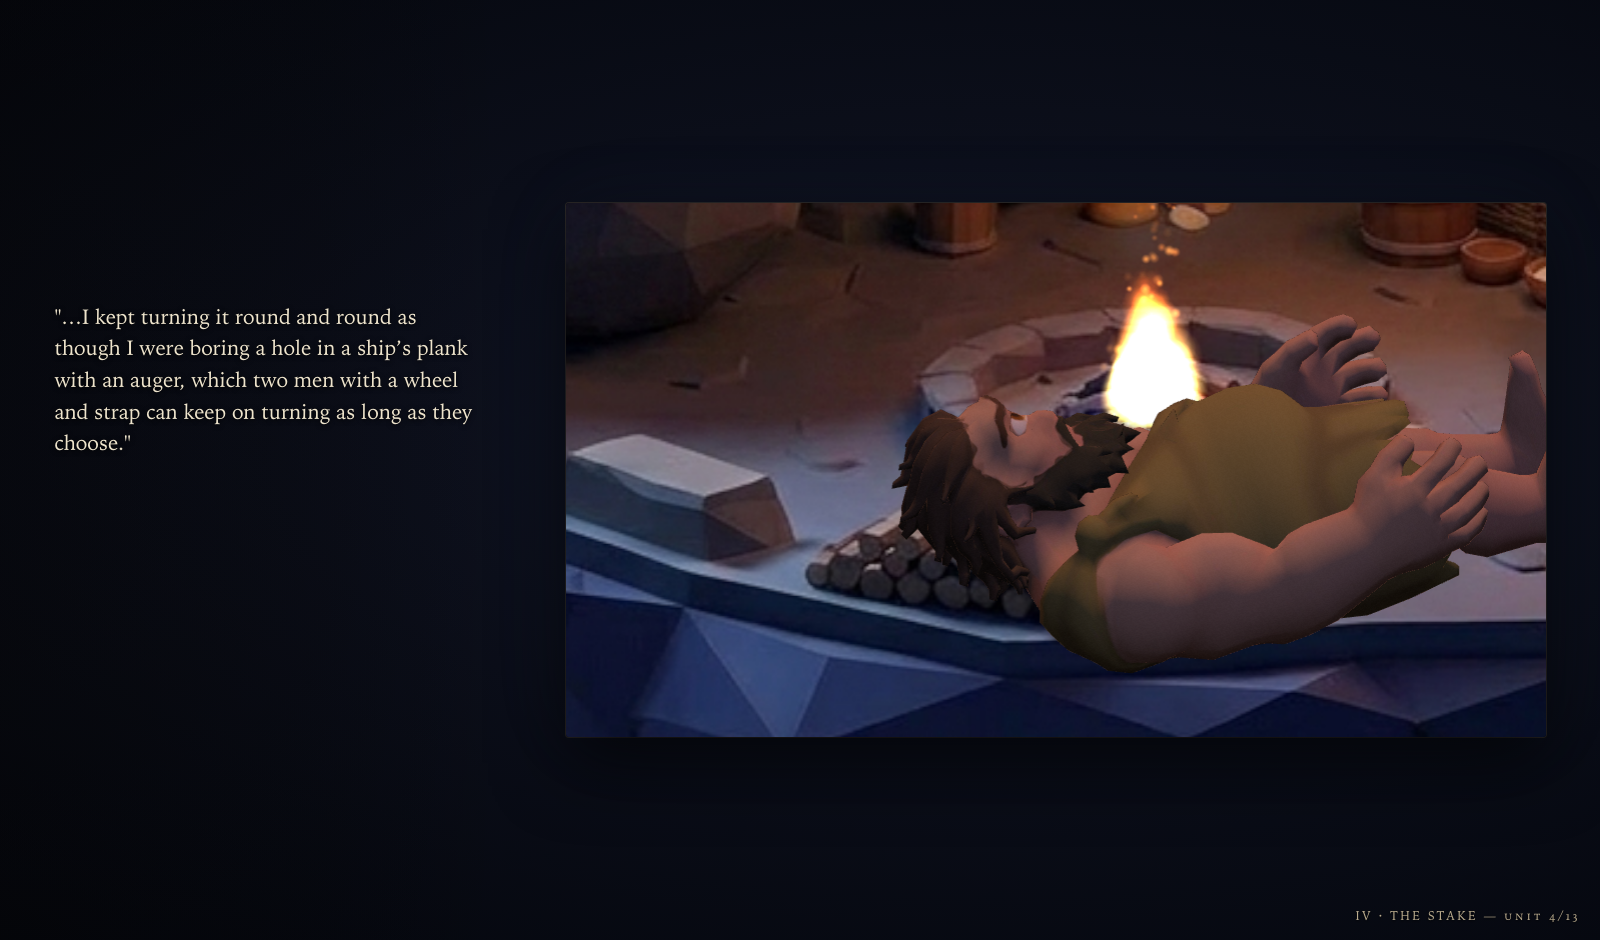
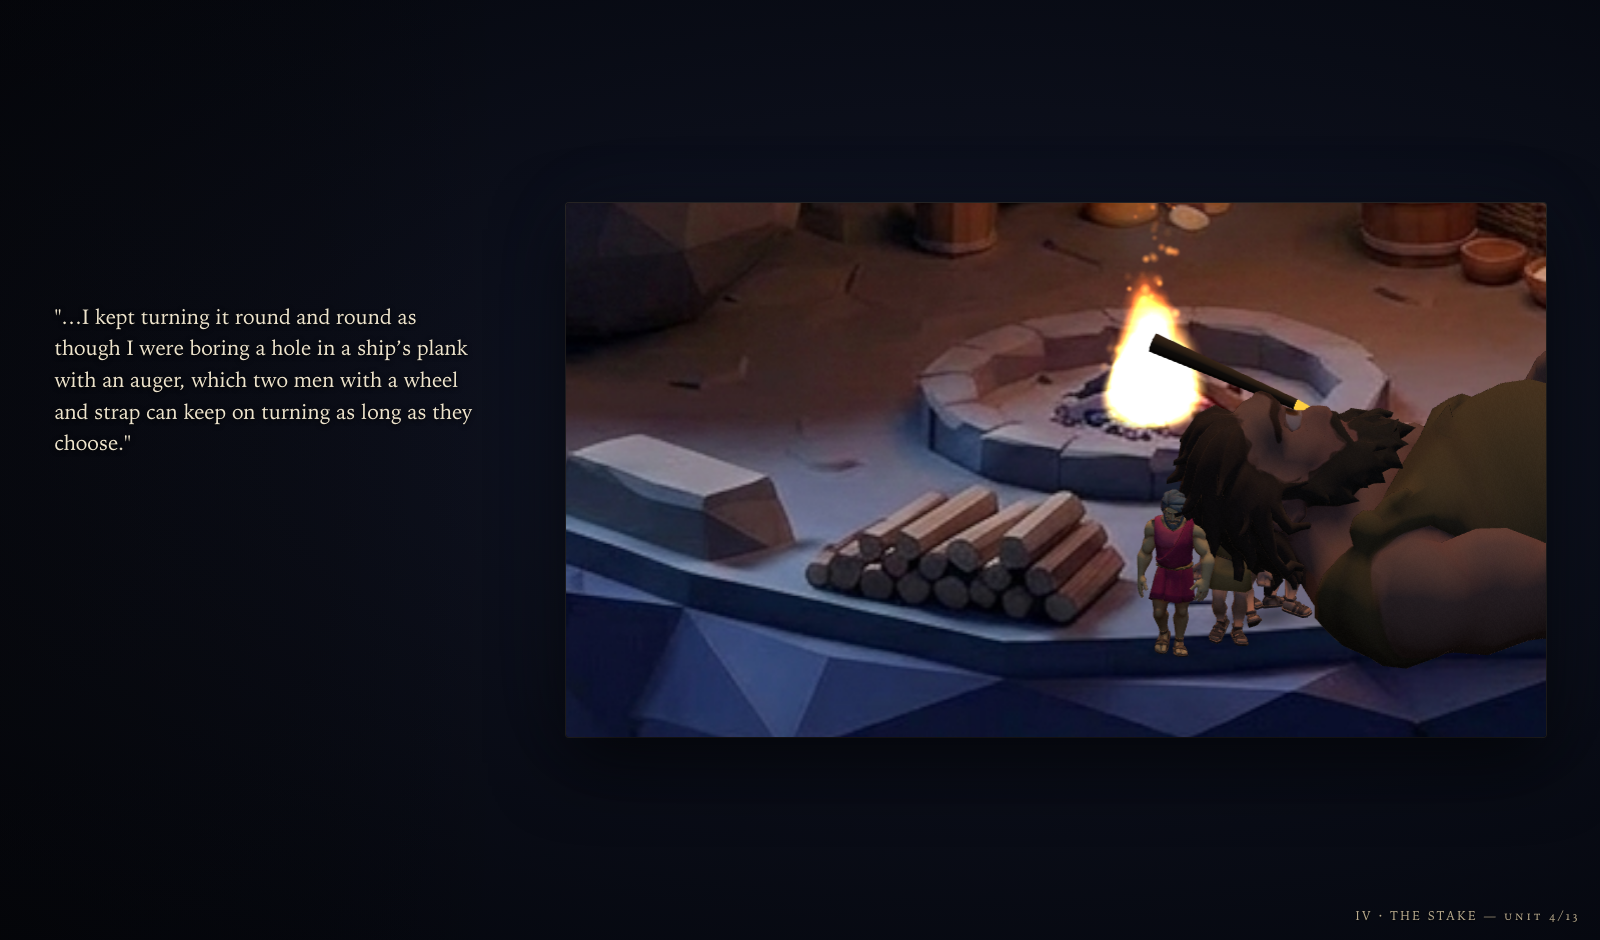
Living Odyssey 3d: C2 + SOL#1/#6 — the giant on his own ledger marks
C2 THE GIANT, staged against the ledger and the lens tables (audited unit by
unit with tools/ody/_stageprobe.mjs, which measures every visible actor's
skinned silhouette in PLATE px inside the live lens box):

- THE SPRAWL SAT 116 px OFF ITS LEDGER BOX. The lying rig's anchor is his
  soles, and the rendered box starts 293.4 px west of it: anchored at 814 he
  drew [520.6..820.8] against the ledger's audited [636.6..937.8] (round-7
  placement audit #5), which laid his torso straight across the fire ring
  [531..735] — Sol's "the fire grows out of his torso" — and stranded
  everything already staged AT the ledger (the auger drives to (668,528) ->
  (702,533), the bearers walk to 700..735). Anchored at 930/531 the head lands
  on the ledger's head pin, the eye returns to drive-tight's own aim point
  (676,495), and ii-10's leaf stops cropping his feet at the meal-close bottom
  edge (571.6 vs 572.5).
- THE BEARERS STAND IN FRONT OF THE HEAD THEY LEAN ON. With the body back on
  its box, the old drive row (700..735, feet 539) sat INSIDE his head — the
  drive-tight frame lost all five men behind his hair. The row moves downstage
  of the sprawl baseline and of the woodpile card (ground 555): men at
  624..720, feet 565..571, whole in the lens, overlapping the head in front.
- THE COUNCIL WAS NOT A TWO-SHOT. A 2.6 m dice-roll cluster on an 11.3 px/m
  set scattered the three crew to plate x 452..462 — ALL THREE outside
[…]

Changed region(s): [[0.5625, 0.3394, 0.9688, 0.7096]]

diff --git a/living-odyssey/3d/app3d/stage3d.js b/living-odyssey/3d/app3d/stage3d.js
@@ -404,7 +404,13 @@ export class Stage3D {
            A blob scaled off stature alone gives a 2.1 m disc to a 7 m giant
            who is LYING DOWN across the hearth; the posed bounding box is the
            honest footprint, and the stage tints and fades it per frame. */
-        const bb = new THREE.Box3().setFromObject(a.model);
+        /* off the POSED skinned sweep (cast3d's skinSize) — Box3.setFromObject
+           reads a SkinnedMesh's BIND box, which gave the seated giant a
+           standing A-pose footprint 1.5 m deep instead of his real 3.4 m. */
+        const bb = a.skinSize
+          ? { max: { x: a.skinSize[0] / 2, z: a.skinSize[2] / 2 },
+              min: { x: -a.skinSize[0] / 2, z: -a.skinSize[2] / 2 } }
+          : new THREE.Box3().setFromObject(a.model);
         const fx = Math.max(0.16, (bb.max.x - bb.min.x) * 0.56);
         const fz = Math.max(0.12, (bb.max.z - bb.min.z) * 0.62);
         a.footprint = [+fx.toFixed(3), +fz.toFixed(3)];
@@ -486,6 +492,13 @@ export class Stage3D {
       tree(keepAll, rec.api.parts['thrown-rocks']);
       tree(keepPts, rec.api.parts['splash-pool']);
     }
+    /* THE HAND PROPS ARE THE STORY, NOT SCENERY. The sword, the bowl and the
+       stake are built into rec.api.root by _buildProps, so this sweep retired
+       them with the painted dressing: iii-08's whole readable action is "take
+       this and drink some wine" and there was NO BOWL in the frame (SOL#1),
+       G2's glint had no sword and Beat IV's stake was an invisible drive.
+       Keep every prop the reader is asked to look at. */
+    if (rec.propsGroup) tree(keepAll, rec.propsGroup);
     let hidden = 0, kept = 0, points = 0;
     rec.api.root.traverse((o) => {
       const drawable = o.isMesh || o.isSprite || o.isLine || o.isInstancedMesh || o.isPoints;
@@ -693,6 +706,12 @@ export class Stage3D {
     const k = Math.min(1, Math.max(0, s.lum / 150));
     m.color.setRGB(s.rgb[0] / 255 * 0.26, s.rgb[1] / 255 * 0.24, s.rgb[2] / 255 * 0.24);
     m.opacity = (0.17 + 0.40 * k) * (a.opacity === undefined ? 1 : a.opacity);
+    /* SOL#6's cast smear is the SAME light as the contact blob — one reading
+       of the plate drives both, or the two shadows disagree about the fire */
+    if (a.scaleShadow && a.scaleShadow.visible) {
+      a.scaleShadow.material.color.copy(m.color);
+      a.scaleShadow.material.opacity = m.opacity * 0.72;
+    }
     const rec = this.sets[this.activeName];
     if (!rec || !rec.fireAnchor) return;
     const p = a.group.position, fa = rec.fireAnchor;
@@ -1117,6 +1136,10 @@ export class Stage3D {
     stake.visible = false;
     grp.add(stake);
     rec.api.root.add(grp);
+    /* named so _retireScenery can spare it: these are the story's hand props,
+       built into the set's root and therefore in the sweep's path */
+    grp.name = 'story-props';
+    rec.propsGroup = grp;
     this.props.sword = sword;
     this.props.bowl = bowl;
     this.props.wine = wine;
@@ -1127,7 +1150,37 @@ export class Stage3D {
     this.props.stakeTipLight = tipLight;
     /* prop marks (ledger px -> world) */
     this.props.swordAt = toWorld(680, 554); this.props.swordAt.y = 0.85;
-    this.props.bowlAt = toWorld(700, 514); this.props.bowlAt.y = 1.05;
+    /* SOL#1 — THE BOWL IS OFFERED, not carried. Round 3 put it on the hero's
+       own mark at chest height, which is INSIDE his torso from this camera:
+       the one readable action of iii-08 ("take this and drink some wine") had
+       no visible object in it. Step it off the mark along the bowl-offer ->
+       giant-seat axis, at the height of a lifted arm, so the hero's silhouette
+       carries a held bowl pointed at the giant. */
+    this.props.bowlAt = toWorld(700, 514);
+    {
+      const seat = toWorld(...GIANT_SEAT_PX);
+      const dx = seat.x - this.props.bowlAt.x, dz = seat.z - this.props.bowlAt.z;
+      const L = Math.max(1e-3, Math.hypot(dx, dz));
+      /* ACROSS, barely UPSTAGE, and the step is measured in PLAN. The giant
+         sits up-and-back, so a straight 0.6 m down that axis is only 0.23 m
+         across (it reads as still inside the hero's torso) and 0.55 m upstage
+         — past the firering-front cut at z 2.45, which swallowed it whole.
+         Fix the lateral step in PLAN and take a fifth of the depth.
+         ROUND 4 — A BOWL THAT DOES NOT TOUCH HIM IS NOT OFFERED. 0.55 m is
+         23.6 plate px on a hero whose drawn half-width is ~16 px, so the cup
+         cleared his silhouette entirely and read as a dark disc floating at
+         his shoulder — the one readable action of iii-08 with no hand in it.
+         0.34 m puts the cup's near half OVER his body edge and its far half
+         out on the lit ground toward the giant: held, and still legible. */
+      const step = 0.34 / Math.max(0.2, Math.abs(dx / L));
+      this.props.bowlAt.x += (dx / L) * step;
+      this.props.bowlAt.z += (dz / L) * step * 0.22;
+    }
+    /* AT HIS HANDS, and clear of the logbundle cut. 1.15 m floated the cup at
+       his chin; 1.02 m is where a man carries a bowl he means to hand over,
+       and it still draws at plate row ~473 — below the logbundle card's own
+       ground (497), so the card cannot take it back. */
+    this.props.bowlAt.y = 1.02;
     this.props.stakeAt = toWorld(782, 496); this.props.stakeAt.y = 0.35;
     sword.position.copy(this.props.swordAt);
     bowl.position.copy(this.props.bowlAt);
@@ -1154,11 +1207,20 @@ export class Stage3D {
 
   /**
    * SOL #6 — SCALE EVIDENCE. A blob under the feet seats a man; it does not
-   * say how big he is. The seated giant gets a SECOND, long soft shadow that
-   * leaves his own footprint and falls DOWNSTAGE-WEST across the floor the
-   * small hero stands on, so the two bodies share one lit ground plane and the
-   * size reads spatially. It is the same painted-blob decal, stretched along
-   * the giant-seat -> bowl-offer axis and laid flat on the plate's floor.
+   * say how big he is. The seated giant gets a SECOND, soft shadow that leaves
+   * his own footprint and falls DOWNSTAGE-WEST across the floor the small hero
+   * stands on, so the two bodies share one lit ground plane and the size reads
+   * spatially. It is the same painted-blob decal, laid flat on the plate's
+   * floor and aimed down the giant-seat -> bowl-offer axis.
+   *
+   * IT IS THE GIANT'S SHADOW, NOT A FLOOR WASH. Round 3 scaled the decal off
+   * the DISTANCE to the hero (2.15 x 1.35 of a 3.5 m span) and centred it at
+   * 46% of the way there: a 15 x 6 m smear at opacity 0.26, which covers the
+   * whole hearth, reads as haze and proves nothing. A cast shadow is the size
+   * of the BODY that casts it — so the width is his own posed width, the
+   * length is his depth plus the reach to the hero's mark, the NEAR END sits
+   * under him (a shadow is attached to its body or it is a stain), and the
+   * opacity is the contact shadow's, because it is the same light.
    */
   _scaleShadow(a, on) {
     const rec = this.sets[this.activeName];
@@ -1169,21 +1231,34 @@ export class Stage3D {
          yaw, and a cast shadow does not turn when the body turns */
       a.scaleShadow = makeContactShadow(1, 0.62);
       a.scaleShadow.name = 'scale-shadow';
-      a.scaleShadow.material.opacity = 0.26;
       a.scaleShadow.rotation.order = 'YXZ';
       this.actorLayer.add(a.scaleShadow);
     }
     const from = rec.toWorld(...GIANT_SEAT_PX);
     const to = rec.toWorld(...GIANT_SEAT_SHADOW_TO);
     const dx = to.x - from.x, dz = to.z - from.z;
-    const len = Math.max(1e-3, Math.hypot(dx, dz));
+    const reach = Math.max(1e-3, Math.hypot(dx, dz));
+    /* his own bulk (posed skinned sweep), never the distance to someone else */
+    const bodyW = a.skinSize ? a.skinSize[0] : 4.2;
+    const bodyD = a.skinSize ? a.skinSize[2] : 3.4;
+    const len = bodyD * 0.5 + reach + 0.9;   /* under him, out past the hero */
     const sh = a.scaleShadow;
     sh.visible = true;
-    sh.position.set(from.x + dx * 0.46, 0.015, from.z + dz * 0.46);
+    /* the near end under the body: centre it half a length down the axis */
+    const ux = dx / reach, uz = dz / reach;
+    const mid = len * 0.5 - bodyD * 0.35;
+    sh.position.set(from.x + ux * mid, 0.015, from.z + uz * mid);
     /* the blob is a plane in XZ, its long axis local +X: aim it down the axis
        (YXZ order, so the yaw applies after the lay-flat tilt) */
     sh.rotation.set(-Math.PI / 2, Math.atan2(-dz, dx), 0);
-    sh.scale.set(2.15 * len, 1.35 * len, 1);
+    /* the decal is 2 m x 1.24 m at scale 1 (makeContactShadow(1, 0.62)) */
+    sh.scale.set(len / 2, (bodyW * 0.86) / 1.24, 1);
+    /* the same light as the contact shadow — tinted and dimmed per frame by
+       _seatShadow's own reading of the plate, so keep them in step here */
+    if (a.shadow && a.shadow.material) {
+      sh.material.color.copy(a.shadow.material.color);
+      sh.material.opacity = a.shadow.material.opacity * 0.72;
+    }
     return sh;
   }
 
@@ -1336,7 +1411,11 @@ export class Stage3D {
     if (this.__acts) return this.__acts;
     const S = this;
     const shoreMarks = {
-      fire: [390, 480], council: [563, 499], councilCrew: [472, 507],
+      /* councilCrew: the ledger's arc centroid, moved 472 -> 479 by the C2 lens
+         audit — 472 put the arc's west man outside council-close's own window
+         (west edge 463.2); 479 keeps all three in the audited sand pocket
+         (450..495) AND inside the lens. */
+      fire: [390, 480], council: [563, 499], councilCrew: [479, 507],
       twelveAtShip: [560, 503],
     };
     const caveMarks = {
@@ -1391,7 +1470,22 @@ export class Stage3D {
       const g = giant('idle');
       if (!g) return;
       if (g.mode === 'pose') return;             /* already down — idempotent */
-      const mid = rec.toWorld(814, 533, 1.05);
+      /* C2 — THE SPRAWL SITS ON ITS OWN LEDGER BOX. The anchor is the rig's
+         ORIGIN (his soles), and laying a 7 m body down puts that origin at the
+         FOOT end: measured through the stage (tools/ody/_stageprobe.mjs), the
+         rendered plate box starts 293.4 px WEST of the anchor px. Anchored at
+         814 the body drew [520.6..820.8] — 116 px west of the ledger's audited
+         sprawl box [636.6..937.8] (round-7 placement audit #5), which laid his
+         torso straight across the fire ring [531..735]. That is the frame Sol
+         read as "the fire grows out of his torso", and it also stranded every
+         thing staged AT the ledger: the auger drives to (668,528)->(702,533)
+         and the bearers walk to 700..735, all of which were landing 100+ px
+         off the body they act on. 930 - 293.4 = 636.6, the ledger's head end,
+         so the eye comes back to the drive-tight lens's own aim point
+         (676,495) and the stake meets the head it is driven into.
+         The 2 px lift clears the meal-close bottom edge (571.6): the sprawl
+         drew to 572.5 and ii-10's leaf ended on a foot crop. */
+      const mid = rec.toWorld(930, 531, 1.05);
       const euler = new THREE.Euler(-Math.PI / 2, Math.PI / 2 + 0.25, 0, 'YXZ');
       if (silent) { S._pose(g, mid, euler); return; }
       const from = g.group.visible ? g.group.position.clone()
@@ -1466,14 +1560,26 @@ export class Stage3D {
         S._walkRoute(u, rec, shoreMarks.fire, shoreMarks.council,
           { silent, label: 'shore:fire->council' });
         /* the crew arc, gathered to the council marks (the amendment: three
-           of the twelve stand IN the frame, the rest are off it) */
-        const centre = rec.toWorld(...shoreMarks.councilCrew);
+           of the twelve stand IN the frame, the rest are off it).
+           C2 — THE ARC IS THE LEDGER'S ARC, NOT A DICE ROLL. A 2.6 m cluster
+           on an 11.3 px/m set scatters bodies ±29 plate px, and i-07's lens is
+           council-close (545,480) k8.6 — a 163.7 px window whose west edge is
+           463.2. Measured, round 3: the three stood at plate x 452..462, ALL
+           THREE ENTIRELY OUTSIDE the frame, so the "two-shot close over the
+           huddle" the ledger records played as one man alone on empty sand
+           (Sol: "he feels stranded"). The ledger names the arc itself —
+           (460,504)(472,507)(484,509) in the sand pocket between the day goat
+           (x<=450) and the stern curl (x>=495) — so stand them ON it, at the
+           mark ±9 px, which is the widest arc that keeps every body inside
+           both the pocket and the lens. */
         const crew = S._aliveCrew();
-        const spots = S._cluster(centre, crew.length, 70999, 2.6);
+        const [cmx, cmy] = shoreMarks.councilCrew;
+        const ARC = [[-9, -3], [0, 0], [9, 2], [18, 4]];
+        const face = rec.toWorld(...shoreMarks.council);
         crew.forEach((c, i) => {
-          S._stand(c, spots[i],
-            Math.atan2(rec.toWorld(...shoreMarks.council).x - spots[i].x,
-                       rec.toWorld(...shoreMarks.council).z - spots[i].z));
+          const [dx, dy] = ARC[i % ARC.length];
+          const p = rec.toWorld(cmx + dx, cmy + dy);
+          S._stand(c, p, Math.atan2(face.x - p.x, face.z - p.z));
         });
       },
       crossing: (rec, silent) => {               /* G1 — camera + ship glide */
@@ -1621,8 +1727,16 @@ export class Stage3D {
         const st = S.props.stake;
         st.visible = true;
         const y0 = S.props.stakeAt.y;
-        S._mover('stake-hide', 1.4, (k) => { st.position.y = y0 - easeInOut(k) * 0.22; },
-          { silent });
+        /* SOL#1 — THE HIDDEN STAKE IS HIDDEN. The act is "we hid it under the
+           dung": a 0.22 m sink left the beam lying in plain sight for the rest
+           of Beat III, and at iii-08 it drew as a dark bar across the giant's
+           forearm — a second object competing with the one readable action.
+           It goes under the floor and off the leaf; iv-01's stake-to-embers
+           lifts it back (st.visible = true is the first thing that act does). */
+        S._mover('stake-hide', 1.4, (k) => {
+          st.position.y = y0 - easeInOut(k) * 0.62;
+          if (k >= 1) st.visible = false;
+        }, { silent });
         /* THE LOTS is the one unit the amendment lets past three: the text
            shakes FOUR chips, so the FOUR bearers materialise (iii-05 only —
            the flock-in seg scatters them back to the huddle) */
@@ -1715,11 +1829,20 @@ export class Stage3D {
           st.quaternion.slerpQuaternions(q0, toQ, e);
         }, { silent });
         if (!silent) S.driveSpin = { t0: S.t + 1.2 };
-        S._walkRoute(S.actors.ulysses, rec, [648, 517], [684, 537],
+        /* C2 — THE BEARERS STAND IN FRONT OF THE HEAD THEY LEAN ON. Their old
+           row (700..735, feet 539) was built around a sprawl that lay 116 px
+           west of its ledger box; with the body back on the ledger his head
+           fills 637..730 and that row put five men INSIDE it — the drive-tight
+           frame lost every one of them behind his hair. The row moves
+           downstage of the sprawl's baseline (571) and of the woodpile card
+           (ground 555), so the leaning bodies read in FRONT of the head, the
+           shaft passes over them into the eye at (676,495), and the overlap is
+           itself the scale evidence at this lens. */
+        S._walkRoute(S.actors.ulysses, rec, [648, 517], [640, 566],
           { silent, label: 'cave:drive-u' });
         S._aliveCrew().forEach((c, i) => {
           S._walkRoute(c, rec, [668 + i * 9, 521 + (i % 3) * 5],
-            [700 + i * 8, 539 + (i % 2) * 6],
+            [664 + i * 22, 562 + (i % 2) * 7],
             { silent, delay: 0.15 * i, label: 'cave:drive-crew' });
         });
       },

diff --git a/living-odyssey/3d/app3d/cast3d.js b/living-odyssey/3d/app3d/cast3d.js
@@ -446,8 +446,31 @@ export async function buildActor(rigName, id) {
     return +THREE.MathUtils.radToDeg(Math.atan2(_v.dot(fwd), _v.y)).toFixed(2);
   };
 
+  /* THE POSED FOOTPRINT. Box3.setFromObject on a SkinnedMesh reports the BIND
+     bounds — the skin transform lives on the GPU — so a seated giant measured
+     that way hands back a standing A-pose box (4.24 x 1.53 m) and his contact
+     shadow comes out a third of his real depth. Sweep the skinned vertices in
+     the pose the stage will mount and hand the stage the truth. */
+  const skinBox = new THREE.Box3();
+  {
+    const p = new THREE.Vector3();
+    group.updateMatrixWorld(true);
+    model.traverse((o) => {
+      if (!o.isSkinnedMesh) return;
+      const n = o.geometry.attributes.position.count;
+      const stride = Math.max(1, Math.floor(n / 900));
+      for (let i = 0; i < n; i += stride) {
+        o.getVertexPosition(i, p);
+        skinBox.expandByPoint(p.applyMatrix4(o.matrixWorld));
+      }
+    });
+  }
+  const skinSize = skinBox.getSize(new THREE.Vector3());
+
   return { id, rig: rigName, group, model, mixer, clip,
            clipDur: clip ? clip.duration : 0, mats,
+           skinSize: [+skinSize.x.toFixed(3), +skinSize.y.toFixed(3),
+                      +skinSize.z.toFixed(3)],
            heightM: rig.heightM || null, lengthM: rig.lengthM || null, pitchDeg,
            /* the boot evidence the [materials] gate reads back */
            identity: { tex: texDims, canon: canon.peaks.slice(0, 4), satPx: canon.sat } };
